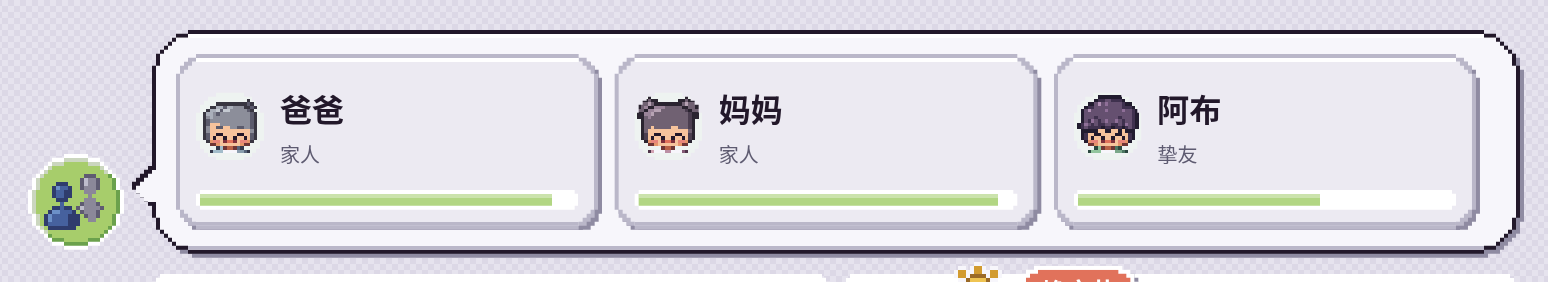
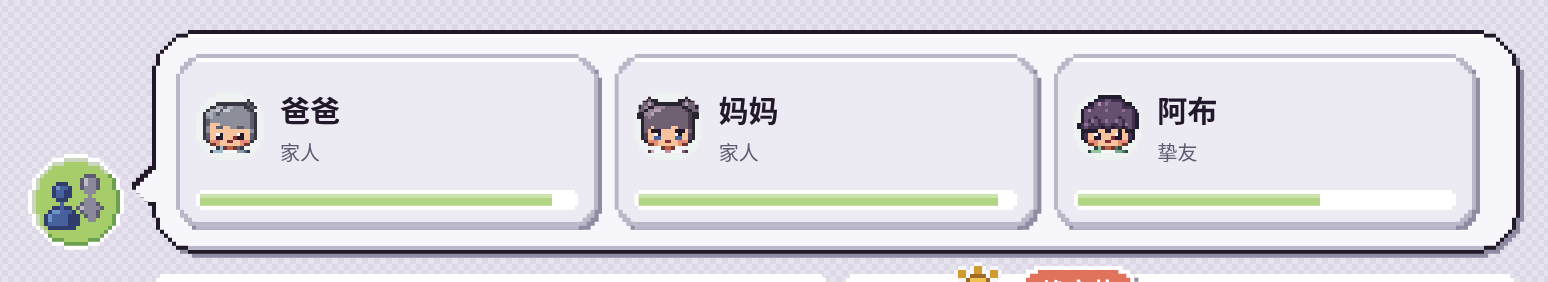
Fit contact names at 25% zoom and use natural portraits

diff --git a/tools/check_contact_fit.js b/tools/check_contact_fit.js
@@ -1,0 +1,32 @@
+// Desktop zoom and Windows display scaling: names must remain readable.
+const assert=require('node:assert/strict'),fs=require('node:fs'),{chromium}=require('playwright');
+const out='/workspace/artifacts/contact-fit';fs.mkdirSync(out,{recursive:true});
+(async()=>{const browser=await chromium.launch({executablePath:'/usr/bin/chromium',args:['--no-sandbox']});try{
+ const errors=[];let combinations=0;
+ for(const dpr of [1,1.25,1.5,2]){
+  const page=await browser.newPage({viewport:{width:1600,height:1000},deviceScaleFactor:dpr,reducedMotion:'reduce'});page.on('pageerror',e=>errors.push(e.message));
+  await page.goto(process.argv[2]||'http://127.0.0.1:8786/');await page.waitForFunction(()=>booted);await page.waitForTimeout(1400);await page.evaluate(()=>document.fonts.ready);
+  await page.evaluate(()=>{closeGuide();closePicker();speed=0;sim.mode='idle';sim.act=null;sim.windup=null;sim.idleUntil=Infinity;cardMoment=()=>false;rollCard=()=>false;rollEvents=()=>false;socialState.nextCall=socialState.nextVisit=1e9;
+   const names=['中村美咲','陈小明','亚历山大','乔安娜','阿辰','林小雨','糖糖','王小可','木子','亚历山德拉'];socialState.contacts.filter(c=>!c.family).forEach((c,i)=>c.name=names[i]);contactsSig='';
+  });
+  for(const scalePct of [25,50,100]){
+   await page.evaluate(v=>{setContactsOpen(false);setScale(v);},scalePct);const before=await page.locator('#view').boundingBox();await page.evaluate(()=>setContactsOpen(true));await page.waitForTimeout(120);
+   const report=await page.evaluate(()=>({house:view.getBoundingClientRect().width,panel:contactsPanel.getBoundingClientRect().width,cols:getComputedStyle(contactsList).gridTemplateColumns.split(' ').length,
+    entries:[...contactsList.querySelectorAll('.contact-card')].map(card=>{const name=card.querySelector('strong'),relation=card.querySelector('small'),avatar=card.querySelector('canvas');return {name:name.textContent,title:name.title,width:name.clientWidth,needed:name.scrollWidth,font:parseFloat(getComputedStyle(name).fontSize),relationFits:relation.scrollWidth<=relation.clientWidth,avatar:avatar.getBoundingClientRect().width,card:card.getBoundingClientRect().width,copyHeight:card.querySelector('.contact-copy').getBoundingClientRect().height};})}));
+   assert.ok(Math.abs(report.house-report.panel)<.6,'Panel must retain house width');assert.deepEqual(await page.locator('#view').boundingBox(),before,'Opening contacts must not move the house');
+   for(const e of report.entries){if([...e.name].length<=4)assert.ok(e.needed<=e.width,e.name+' clipped at '+scalePct+'%, DPR '+dpr+': '+JSON.stringify(e));assert.ok(e.relationFits,'Relationship clipped: '+JSON.stringify(e));assert.equal(e.title,e.name);assert.ok(e.font>=11);}
+   if(scalePct===25){if(dpr===1)assert.equal(report.cols,3,'Regular desktop keeps three columns');assert.ok(report.entries.every(e=>e.avatar===20));
+    await page.locator('#contactsPanel').screenshot({path:`${out}/contacts-25-dpr-${dpr}.png`});
+    await page.evaluate(()=>{contactsList.scrollTop=contactsList.scrollHeight;});assert.ok(await page.evaluate(()=>contactsList.scrollTop>0));
+    const beforeScroll=await page.evaluate(()=>contactsList.scrollTop);await page.evaluate(()=>{socialState.contacts.at(-1).affinity+=.25;fillContacts();});assert.equal(await page.evaluate(()=>contactsList.scrollTop),beforeScroll,'Refresh retains scroll');
+   }
+   combinations++;
+  }
+  // Eye shapes must remain different: happy used to erase all these distinctions.
+  await page.evaluate(()=>{const images=['round','bean','droopy','cat','smile','sleepy'].map(eyes=>{const cv=document.createElement('canvas');cv.width=cv.height=40;drawContactAvatar(cv,{id:'portrait-test',look:{...doll.PRESETS.f,eyes}});return cv.toDataURL();});if(new Set(images).size!==6)throw Error('Portraits override their actual eye shapes');
+   const draw=c=>{const cv=document.createElement('canvas');cv.width=cv.height=40;drawContactAvatar(cv,c);return cv.toDataURL();},forgotten={id:'forgotten',forgotten:true,look:doll.PRESETS.m};if(draw(forgotten)!==draw({...forgotten,look:doll.PRESETS.f}))throw Error('Forgotten portrait reveals appearance');if(draw({...contactFor('dad'),forgotten:true})===draw(forgotten))throw Error('Parent portrait protection lost');
+  });
+  await page.close();
+ }
+ assert.deepEqual(errors,[]);console.log('PASS: '+combinations+' desktop zoom/DPI combinations; complete 3/4-character names, readable relations, native-size compact portraits, unchanged panel/house geometry, scrolling, full-name tooltips, distinct natural eye shapes and forgotten/parent protection.');
+ }finally{await browser.close();}})().catch(e=>{console.error(e);process.exitCode=1;});

diff --git a/prototype/demo/social_hud.css b/prototype/demo/social_hud.css
@@ -54,10 +54,10 @@ html.desktop .desk { padding-left:76px; }
 .contact-card { position:relative; --hud-outline:var(--hud-card-clip); --hud-inner:var(--hud-card-in); --hud-frame:var(--bevel-lo); --hud-surface:var(--panel-2); display:grid; grid-template-columns:34px minmax(0,1fr); grid-template-rows:minmax(0,1fr) 10px; align-items:center; gap:5px 8px; height:100%; min-width:0; margin:0; padding:10px; color:var(--ink); text-align:left; transition:transform .25s var(--hud-settle); }
 .contact-card:hover,.contact-card[aria-expanded="true"] { --hud-frame:var(--accent); --hud-surface:var(--accent-soft); }
 .contact-card:active { transform:scale(.98); }
-.contact-card canvas { width:34px; height:34px; clip-path:var(--hud-avatar-clip); image-rendering:pixelated; background:var(--panel); }
+.contact-card canvas { width:34px; height:34px; clip-path:var(--contact-avatar-clip,var(--hud-avatar-clip)); image-rendering:pixelated; background:var(--panel); }
 .contact-copy { min-width:0; display:flex; flex-direction:column; gap:2px; }
-.contact-copy strong { font-size:clamp(12px,1.6vw,17px); overflow:hidden; white-space:nowrap; text-overflow:ellipsis; }
-.contact-copy small { font-size:11px; color:var(--muted); overflow:hidden; white-space:nowrap; text-overflow:ellipsis; }
+.contact-copy strong { font-size:var(--contact-name-fs,16px); overflow:hidden; white-space:nowrap; text-overflow:ellipsis; }
+.contact-copy small { font-size:10px; color:var(--muted); overflow:hidden; white-space:nowrap; text-overflow:ellipsis; }
 .affinity { grid-column:1/-1; height:10px; padding:2px; background:var(--ring); clip-path:var(--hud-meter-clip); overflow:hidden; }
 .affinity i { display:block; height:100%; width:calc(var(--affinity)*1%); background:var(--need-ok); clip-path:var(--hud-meter-in); box-shadow:inset 0 2px 0 #ffffff55; }
 .contact-actions { position:fixed; z-index:60; width:0; height:0; opacity:0; visibility:hidden; transition:opacity .15s,visibility 0s .25s; }
@@ -109,8 +109,16 @@ html.desktop .desk { padding-left:76px; }
 .social-memories time { display:block; color:var(--muted); font-size:11px; margin-bottom:6px; }
 .social-memories strong { font-size:15px; }
 .home-guest-say { z-index:18; max-width:min(240px,65vw); white-space:normal; text-align:center; overflow-wrap:anywhere; pointer-events:none; }
-.contact-copy strong { font-size:clamp(11px,1.5vw,16px); }
-.contact-copy small { font-size:10px; }
+/* Compact desktop zoom keeps four CJK characters readable inside the same panel. */
+.contacts-panel.compact .contact-card { grid-template-columns:20px minmax(0,1fr); gap:4px; padding:6px; }
+.contacts-panel.compact .contact-card canvas { width:20px; height:20px; }
+.contacts-panel.compact .contact-copy strong { font-size:var(--contact-name-fs,11px); letter-spacing:0; }
+.contacts-panel.compact .contact-copy small { font-size:9px; }
+.contacts-panel.two-columns .contacts-list { grid-template-columns:repeat(2,minmax(0,1fr)); }
+.contacts-panel.stacked .contact-card { grid-template-columns:minmax(0,1fr); grid-template-rows:20px minmax(0,1fr) 10px; justify-items:center; gap:3px; }
+.contacts-panel.stacked .contact-copy { width:100%; align-items:center; }
+.contacts-panel.stacked .affinity { width:100%; }
+
 @keyframes social-sheet-in { from { opacity:0; scale:.96; } to { opacity:1; scale:1; } }
 @media(prefers-reduced-motion:reduce) { .social-sheet { animation:none; } }
 

diff --git a/prototype/demo/social_hud.js b/prototype/demo/social_hud.js
@@ -28,6 +28,13 @@ function sizeSocialHud(){
     style.setProperty(`--hud-${name}-clip`,roundClip(n,p));
     style.setProperty(`--hud-${name}-in`,roundClip(Math.max(1,n-1),p));
   }
+  // Follow the game's actual width, including desktop display scaling.
+  const houseWidth=view.getBoundingClientRect().width,compact=houseWidth<420;
+  contactsPanel.classList.toggle('compact',compact);
+  contactsPanel.classList.toggle('two-columns',houseWidth<300);
+  contactsPanel.classList.toggle('stacked',houseWidth<220);
+  style.setProperty('--contact-name-fs',Math.max(11,Math.min(16,Math.floor(houseWidth/45)))+'px');
+  style.setProperty('--contact-avatar-clip',roundClip(compact?5:8,2));
   style.setProperty('--hud-track-in',roundClip(2,b));
   style.setProperty('--hud-track-edge',2*b+'px');
 }
@@ -41,7 +48,7 @@ function contactFor(who,id=null){return socialState.contacts.find(c=>c.id===id)|
 function drawContactAvatar(canvas,c){
   if(c.forgotten&&!c.family){const ctx=canvas.getContext('2d');ctx.clearRect(0,0,40,40);ctx.fillStyle='#e4e1ec';ctx.fillRect(0,0,40,40);ctx.fillStyle='#666078';for(const [y,row]of ['01110','11011','00011','00110','00100','00000','00100'].entries())for(let x=0;x<row.length;x++)if(row[x]==='1')ctx.fillRect(10+x*4,6+y*4,4,4);return;}
   const lk=doll.normalize(c.look||doll.PRESETS[c.family==='mom'?'f':'m']);
-  const body=doll.toCanvas(doll.pixels(lk,{expr:'happy',look:0,bob:0,sway:0},doll.rampsOf(lk)),DW,DH);
+  const body=doll.toCanvas(doll.pixels(lk,{expr:'neutral',look:0,bob:0,sway:0},doll.rampsOf(lk)),DW,DH);
   const ctx=canvas.getContext('2d');ctx.imageSmoothingEnabled=false;ctx.clearRect(0,0,40,40);
   ctx.fillStyle='#eef3f1';ctx.fillRect(0,0,40,40);ctx.drawImage(body,0,0,DW,17,0,2,40,34);
 }
@@ -53,7 +60,7 @@ function fillContacts(){
     card.setAttribute('aria-label',`${contactName(c)}，${contactRelation(c)}，好感 ${Math.round(c.affinity)}`);card.setAttribute('aria-expanded',String(selectedContact===c.id));
     const avatar=document.createElement('canvas');avatar.width=avatar.height=40;avatar.setAttribute('aria-hidden','true');drawContactAvatar(avatar,c);
     const copy=document.createElement('span');copy.className='contact-copy';
-    copy.append(Object.assign(document.createElement('strong'),{textContent:contactName(c)}),Object.assign(document.createElement('small'),{textContent:contactRelation(c)}));
+    copy.append(Object.assign(document.createElement('strong'),{textContent:contactName(c),title:contactName(c)}),Object.assign(document.createElement('small'),{textContent:contactRelation(c)}));
     const meter=document.createElement('span');meter.className='affinity';meter.title=`好感 ${Math.round(c.affinity)} / 100`;meter.style.setProperty('--affinity',c.affinity);meter.append(document.createElement('i'));
     card.append(avatar,copy,meter);contactsList.append(card);
   }

diff --git a/.claude/skills/pixel-art/SKILL.md b/.claude/skills/pixel-art/SKILL.md
@@ -934,3 +934,13 @@ NPC 回归约束：自动交谈也占用对话/来电通道，不能与电话或
 饮酒完成、心情变化等旁白在聊天后排队显示，不覆盖正在说的话；紧急自理先结束
 聊天再发提示。读档清掉旧时间线的临时台词/队列，并以存档的话题记录为准（旧档
 缺少记录时恢复为空，而非沿用回档前记录）。check_npc_interruptions.js 覆盖这些冲突。
+
+### 25% 缩放的人脉卡片（2026-10-24）
+
+卡片尺寸按游戏实际宽度计算，不跟浏览器 viewport 的字号走。25% 常规电脑屏幕保留
+三列，头像按原生像素缩到 20px，内边距 6px、间距 4px、名字至少 11px，须完整
+显示四个汉字；更长姓名保留完整 title/aria-label。高 DPI 的电脑实际宽度不足时，
+在同一面板内改两列/上下排，不能放大面板或把字挤没。不恢复手机适配工作。
+小头像使用独立 10px 像素圆角，不能套用大头像 16px 圆角导致裁切异常。
+联系人、来电、对方对话和来访共用 drawContactAvatar，使用 neutral 自然表情，
+保留人物真实眼型；不再统一强制 happy。天生眯眯眼等造型仍保留，遗忘头像继续问号。
